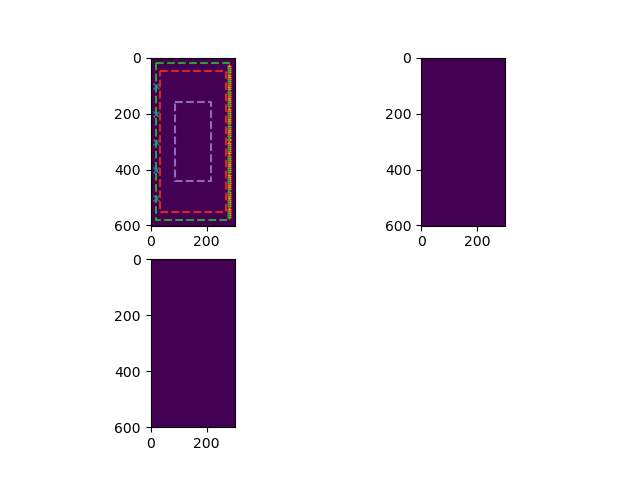
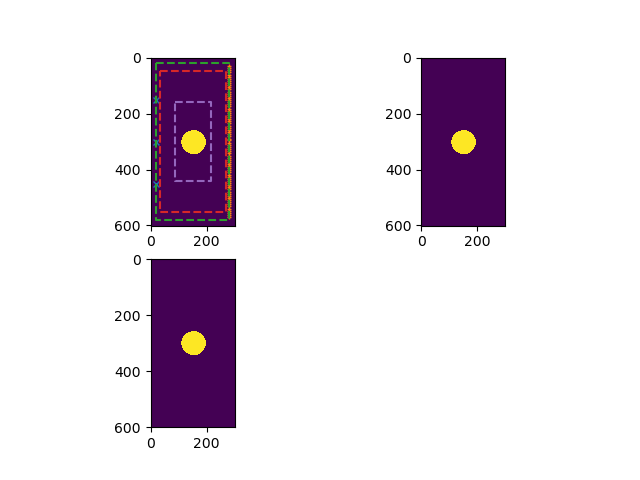
reactivate density inversion

Changed region(s): [[0.6875, 0.25, 0.75, 0.3438], [0.2812, 0.25, 0.3438, 0.3438], [0.2812, 0.6875, 0.3438, 0.75]]

diff --git a/src/cpu/n_simulate_PSV.cpp b/src/cpu/n_simulate_PSV.cpp
@@ -463,10 +463,10 @@ void simulate_fwi_PSV(int nt, int nz, int nx, real dt, real dz, real dx,
         // Update material parameters to the gradients !!
 		update_mat2(lam, lam_copy, grad_lam, 4.8e+10, 0.0, step_length, nz, nx);
         update_mat2(mu, mu_copy, grad_mu, 2.7e+10, 0.0, step_length, nz, nx);
-/*
+
         step_length_rho = 0.5 * step_length;
         update_mat2(rho, rho_copy, grad_rho, 3000.0, 1.25, step_length_rho, nz, nx);
-*/
+
         //
         // Saving the Accumulative storage file to a binary file for every shots
         std::cout<<"Iteration step: " <<iterstep<<", "<<mat_save_interval<<", "<< iterstep%mat_save_interval<<std::endl;

diff --git a/src/cpu/n_step_length_PSV.cpp b/src/cpu/n_step_length_PSV.cpp
@@ -88,11 +88,11 @@ real step_length_PSV(real est_step_length, real L2_norm_0, int nshot, // shot in
                 update_mat2(lam, lam_copy, grad_lam, 4.8e+10, 0.0, est_step_length, nz, nx);
                 update_mat2(mu, mu_copy, grad_mu, 2.7e+10, 0.0, est_step_length, nz, nx);
             }
-/*    
+    
             if(update_param == 0 || update_param == 2){
                 update_mat2(rho, rho_copy, grad_rho, 3000.0, 1.5, step_factor_rho*est_step_length, nz, nx);
             }
- */           
+            
 
             // calculate material average
             mat_av2(lam, mu, rho, mu_zx, rho_zp, rho_xp, 

diff --git a/scripts/pre_proc_fwi.py b/scripts/pre_proc_fwi.py
@@ -88,7 +88,7 @@ else:
 # scalar material variables
 Cp = 500.0
 Cs = 300.0
-scalar_rho = 1700.0
+scalar_rho = 1500.0
 scalar_mu = Cs*Cs*scalar_rho
 scalar_lam = Cp*Cp*scalar_rho - 2.0*scalar_mu
 mat_grid = 1 # 0 for scalar and 1 for grid
